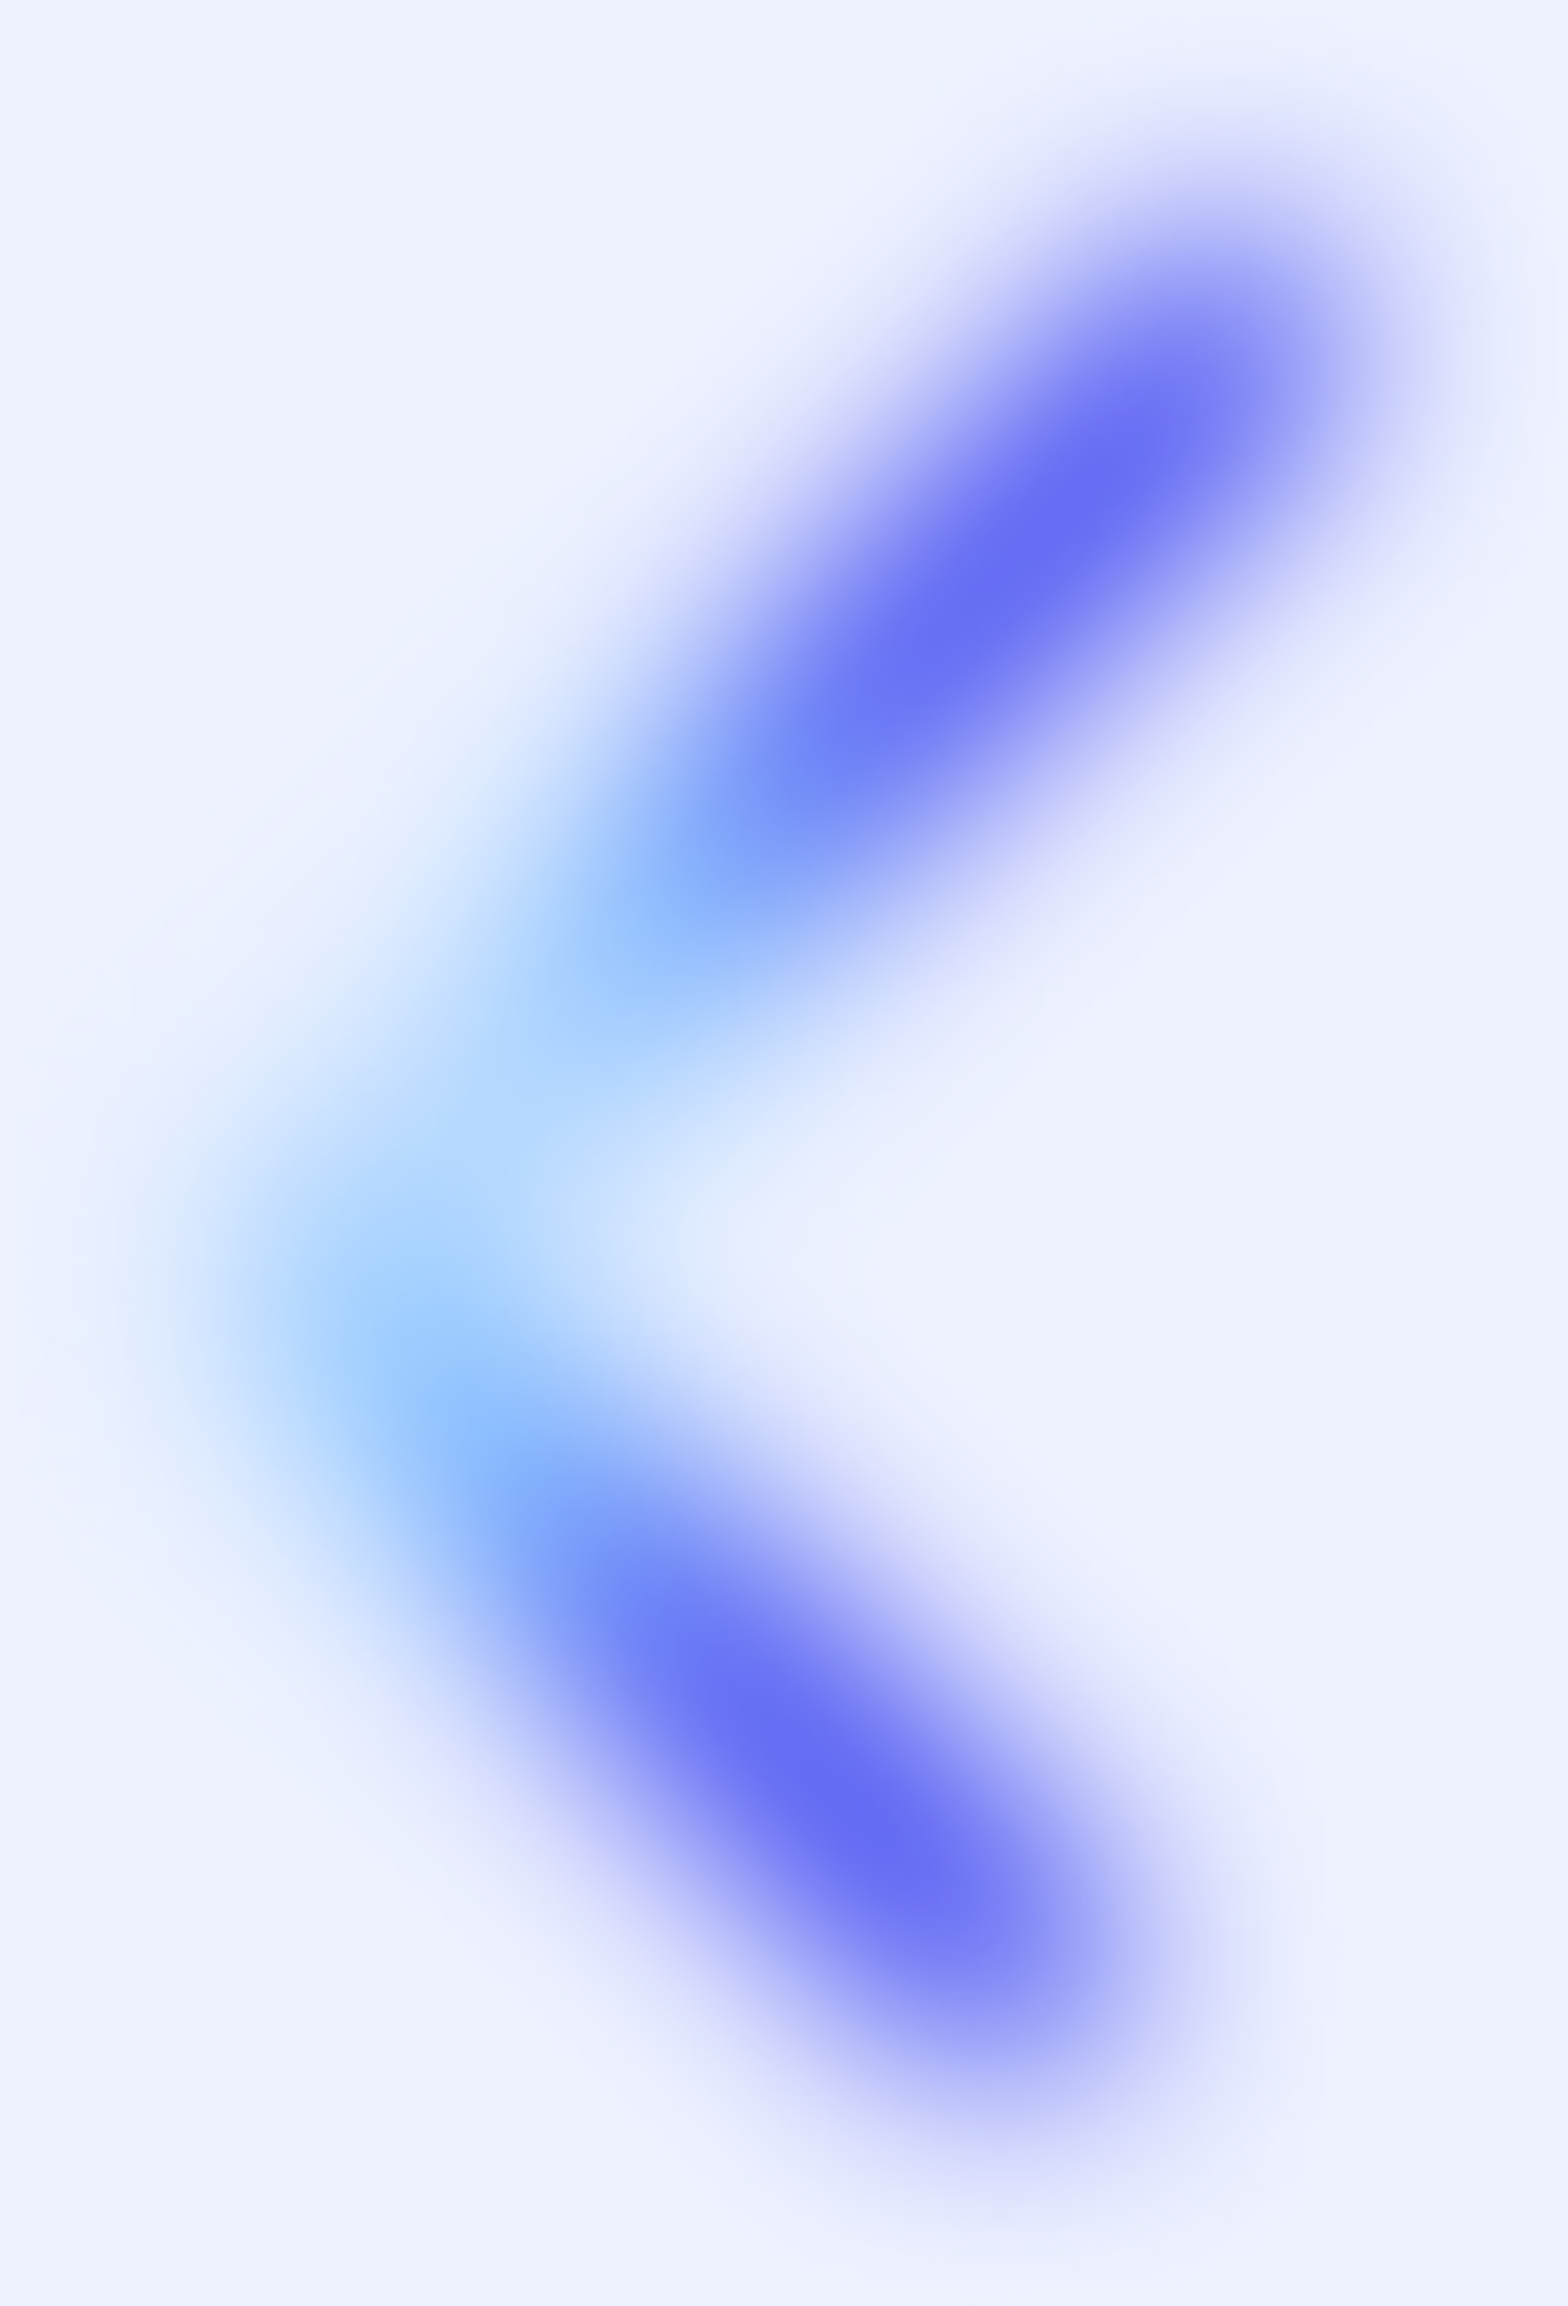
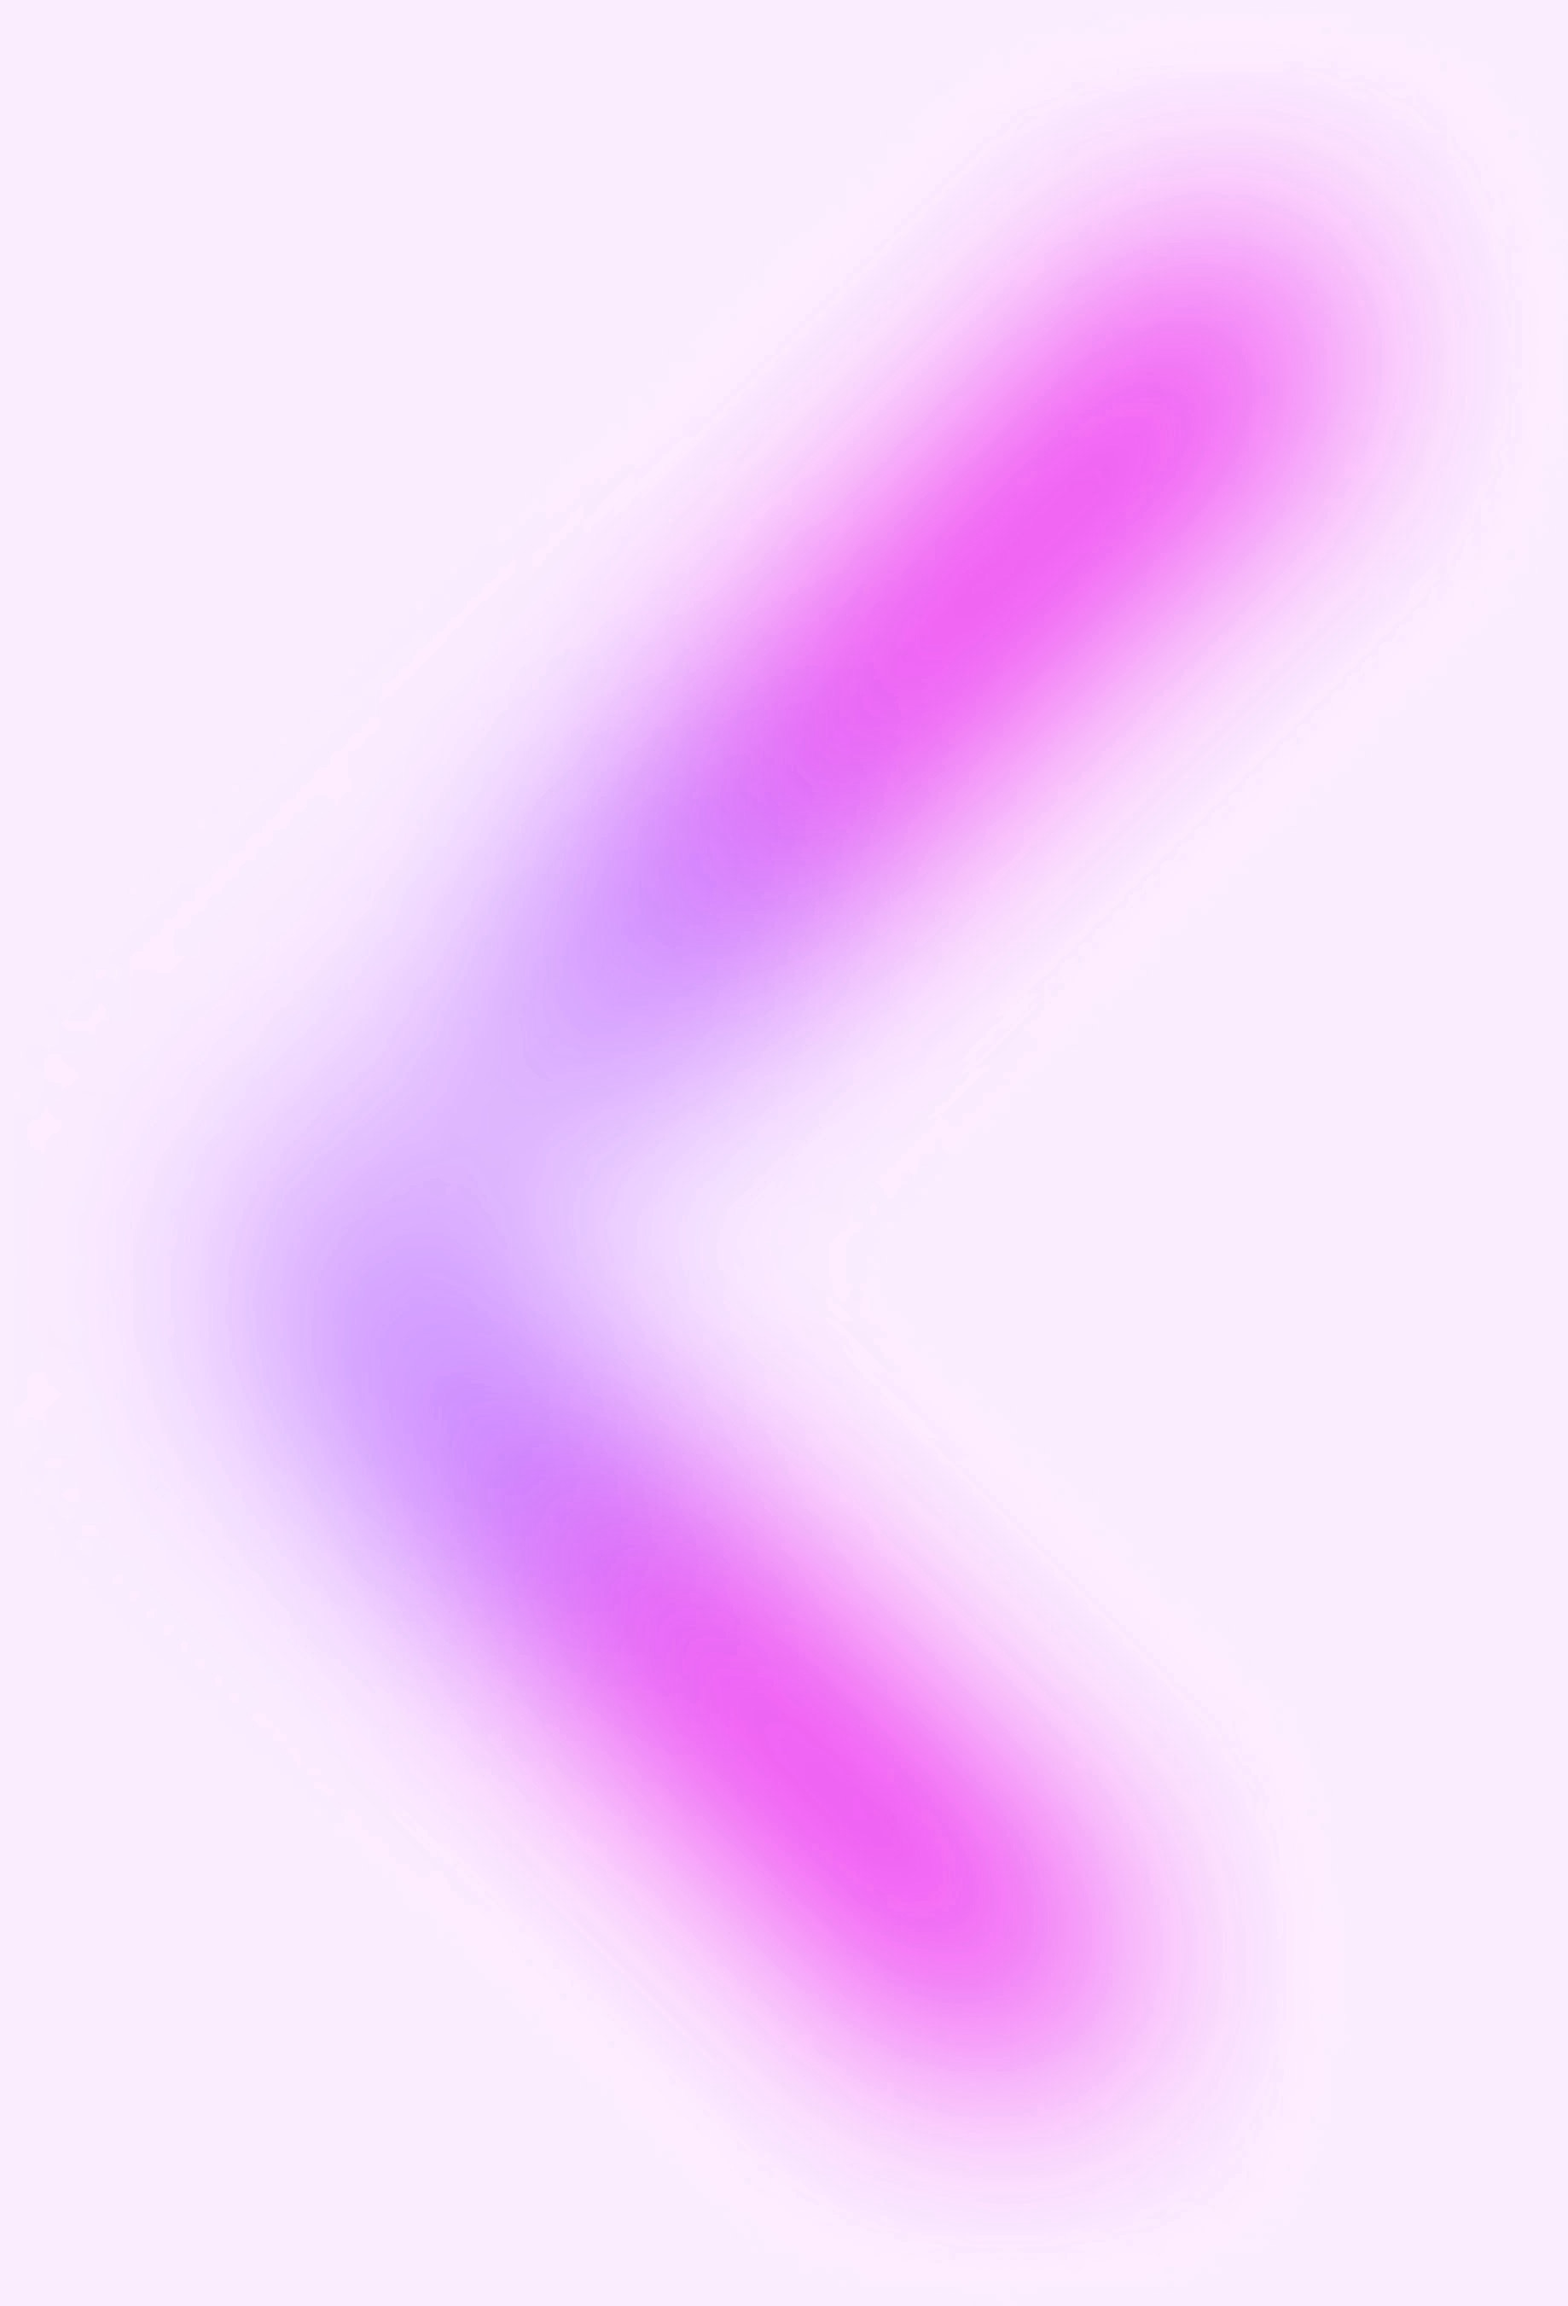
changed background

diff --git a/src/components/Speakers.jsx b/src/components/Speakers.jsx
@@ -5,7 +5,6 @@ import clsx from 'clsx'
 
 import { Container } from '@/components/Container'
 import { DiamondIcon } from '@/components/DiamondIcon'
-import andrewGreeneImage from '@/images/avatars/andrew-greene.jpg'
 import sarahDelOlmoImage from '@/images/avatars/sarah-del-olmo.jpg'
 import nathanGalindoImage from '@/images/avatars/nathan-galindo.jpg'
 import nathanHennighImage from '@/images/avatars/nathan-hennigh.jpg'
@@ -26,7 +25,7 @@ const days = [
     speakers: [
       {
         name: 'Nathan Galindo',
-        role: 'Co-President, Head of Engineering',
+        role: 'Co-President Head of Engineering',
         url: 'https://www.linkedin.com/in/nathan-galindo-840835195/',
         image: nathanGalindoImage,
       },

diff --git a/src/components/Newsletter.jsx b/src/components/Newsletter.jsx
@@ -30,7 +30,7 @@ export function Newsletter() {
     <>
       <section id="newsletter" aria-label="Newsletter">
         <Container>
-          <div className="relative -mx-4 overflow-hidden bg-indigo-50 py-20 px-4 sm:-mx-6 sm:px-6 md:mx-0 md:rounded-5xl md:px-16 xl:px-24 xl:py-36">
+          <div className="relative -mx-4 overflow-hidden bg-[#faebfe] py-20 px-4 sm:-mx-6 sm:px-6 md:mx-0 md:rounded-5xl md:px-16 xl:px-24 xl:py-36">
             <Image
               className="absolute left-1/2 top-0 translate-x-[-10%] translate-y-[-45%] lg:translate-x-[-32%]"
               src={backgroundImage}

diff --git a/src/components/Hero.jsx b/src/components/Hero.jsx
@@ -7,7 +7,7 @@ import backgroundImage from '@/images/background.jpg'
 export function Hero() {
   return (
     <div className="relative pt-10 pb-20 sm:py-24">
-      <div className="absolute inset-x-0 -top-48 -bottom-14 overflow-hidden bg-indigo-50">
+      <div className="absolute inset-x-0 -top-48 -bottom-14 overflow-hidden bg-[#ffeefe]">
         <Image
           className="absolute top-0 left-0 translate-y-[-10%] translate-x-[-55%] -scale-x-100 sm:left-1/2 sm:translate-y-[-6%] sm:translate-x-[-98%] lg:translate-x-[-106%] xl:translate-x-[-122%]"
           src={backgroundImage}
